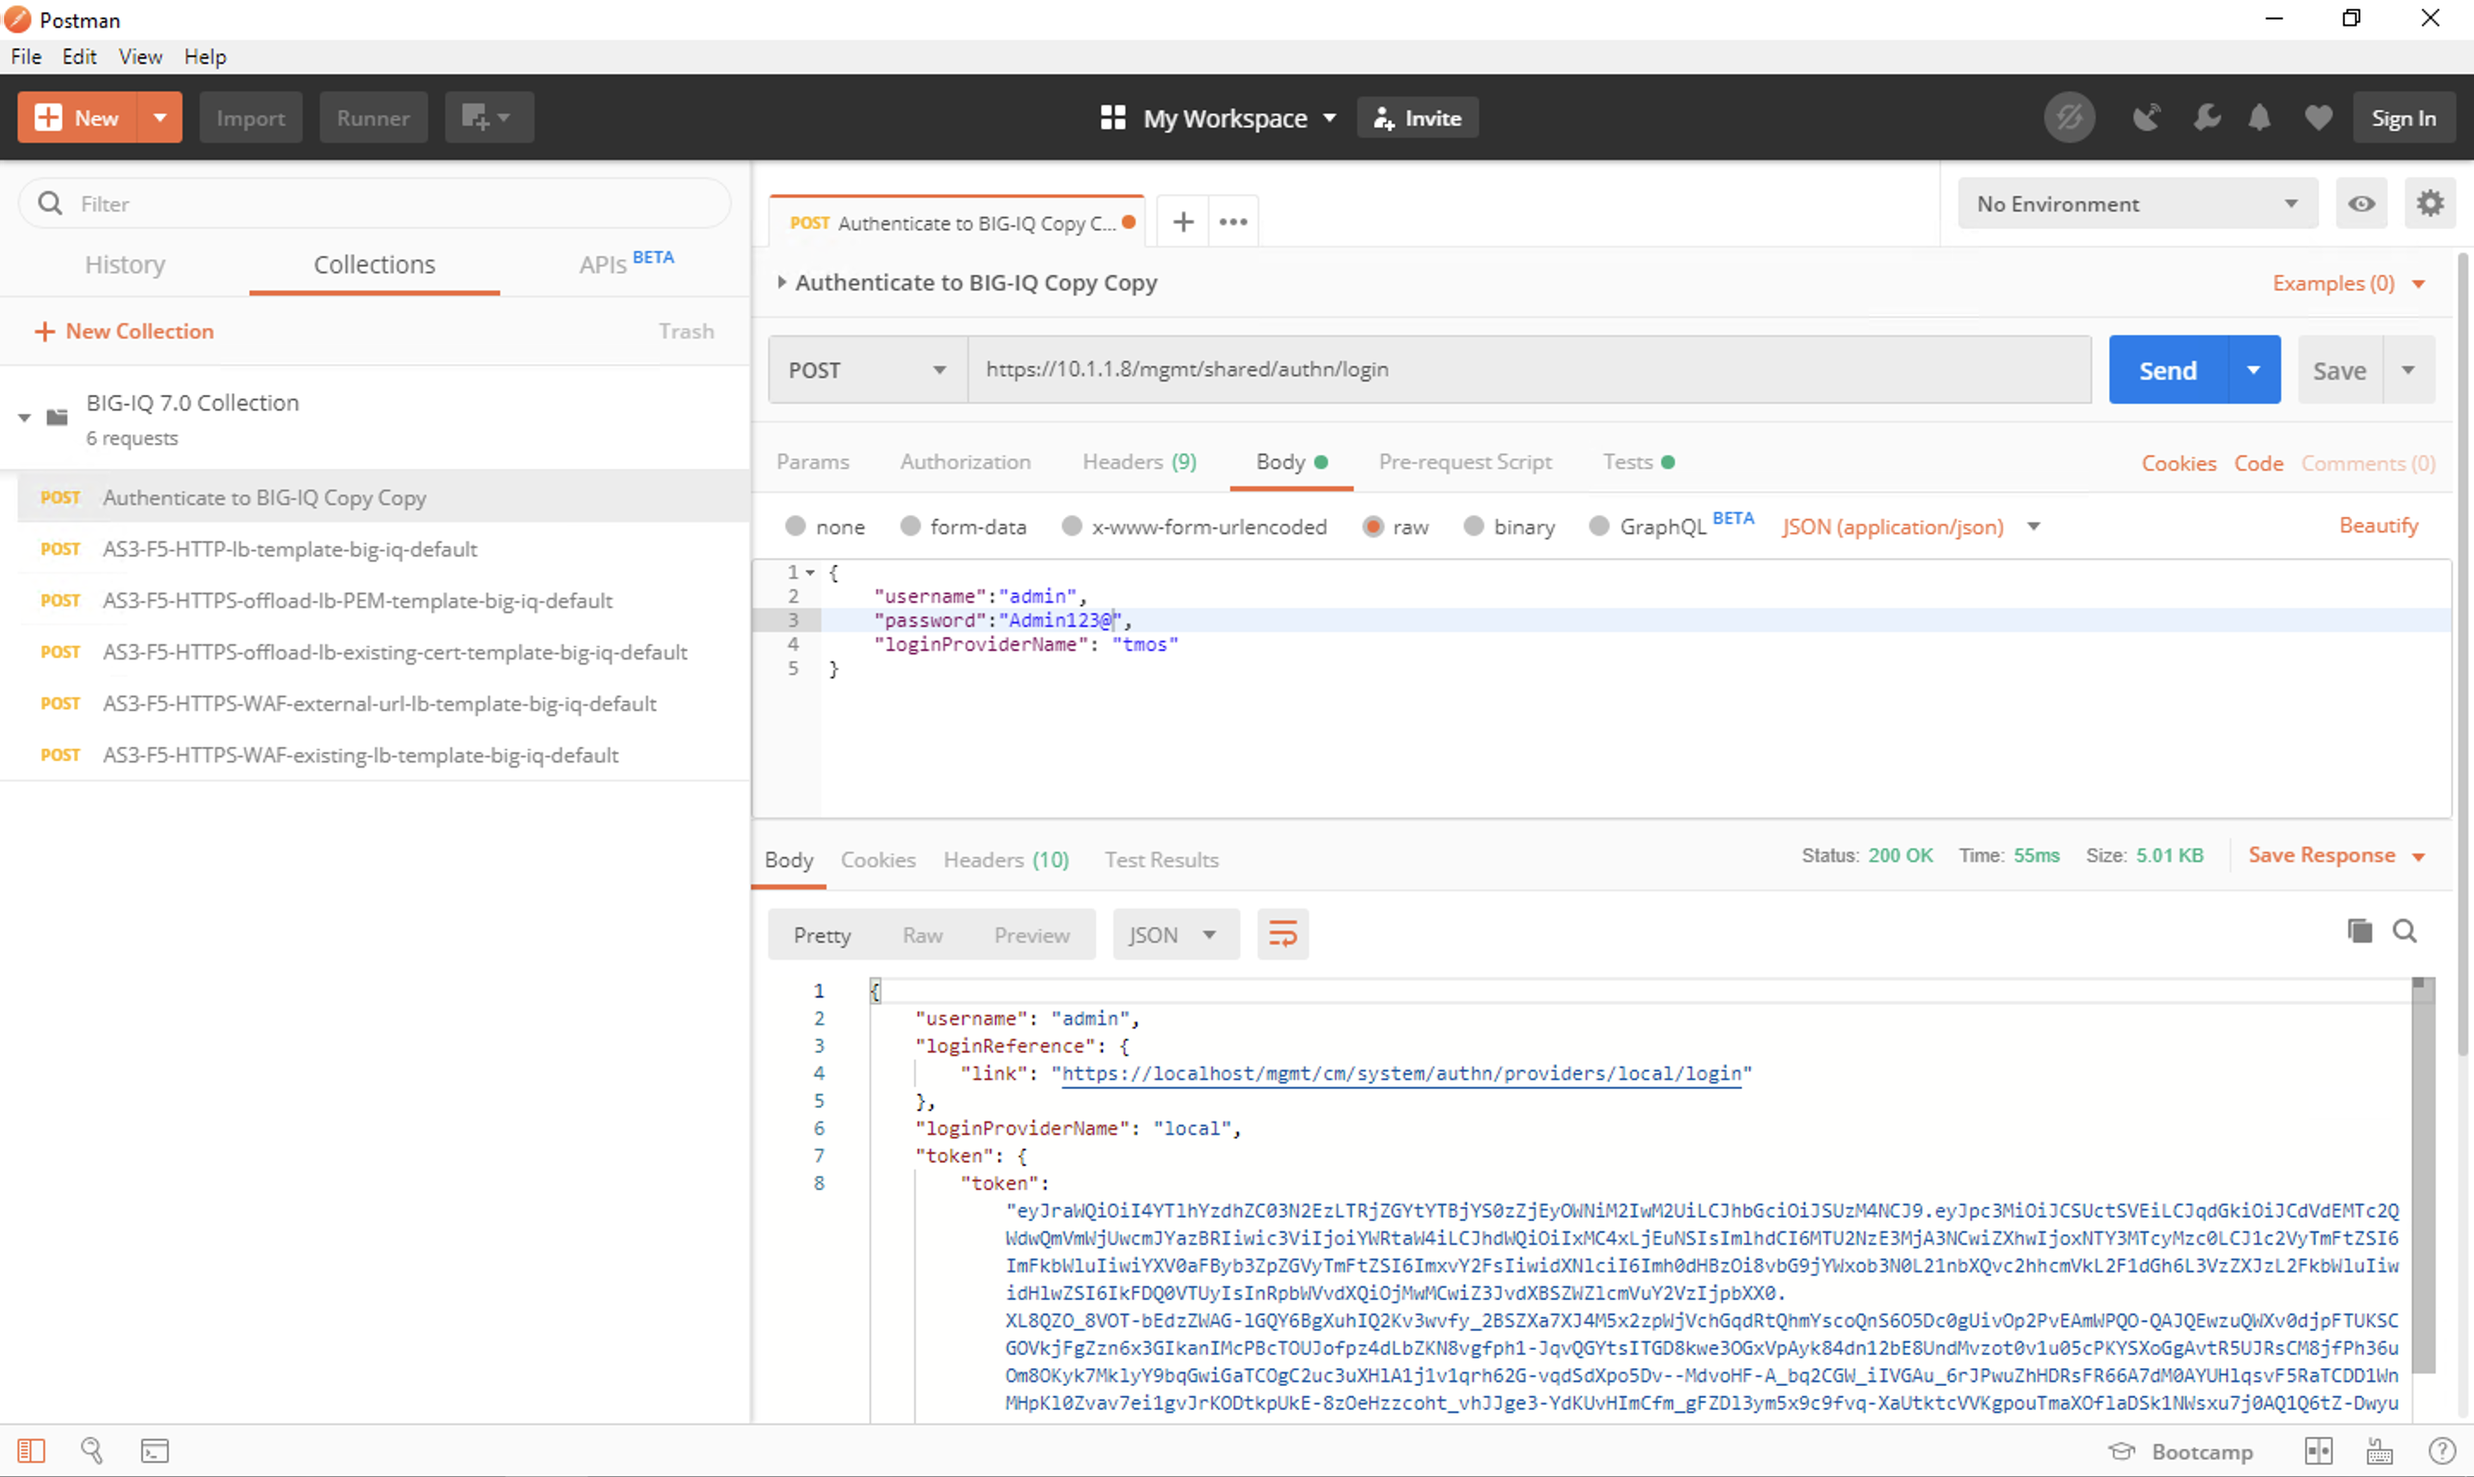
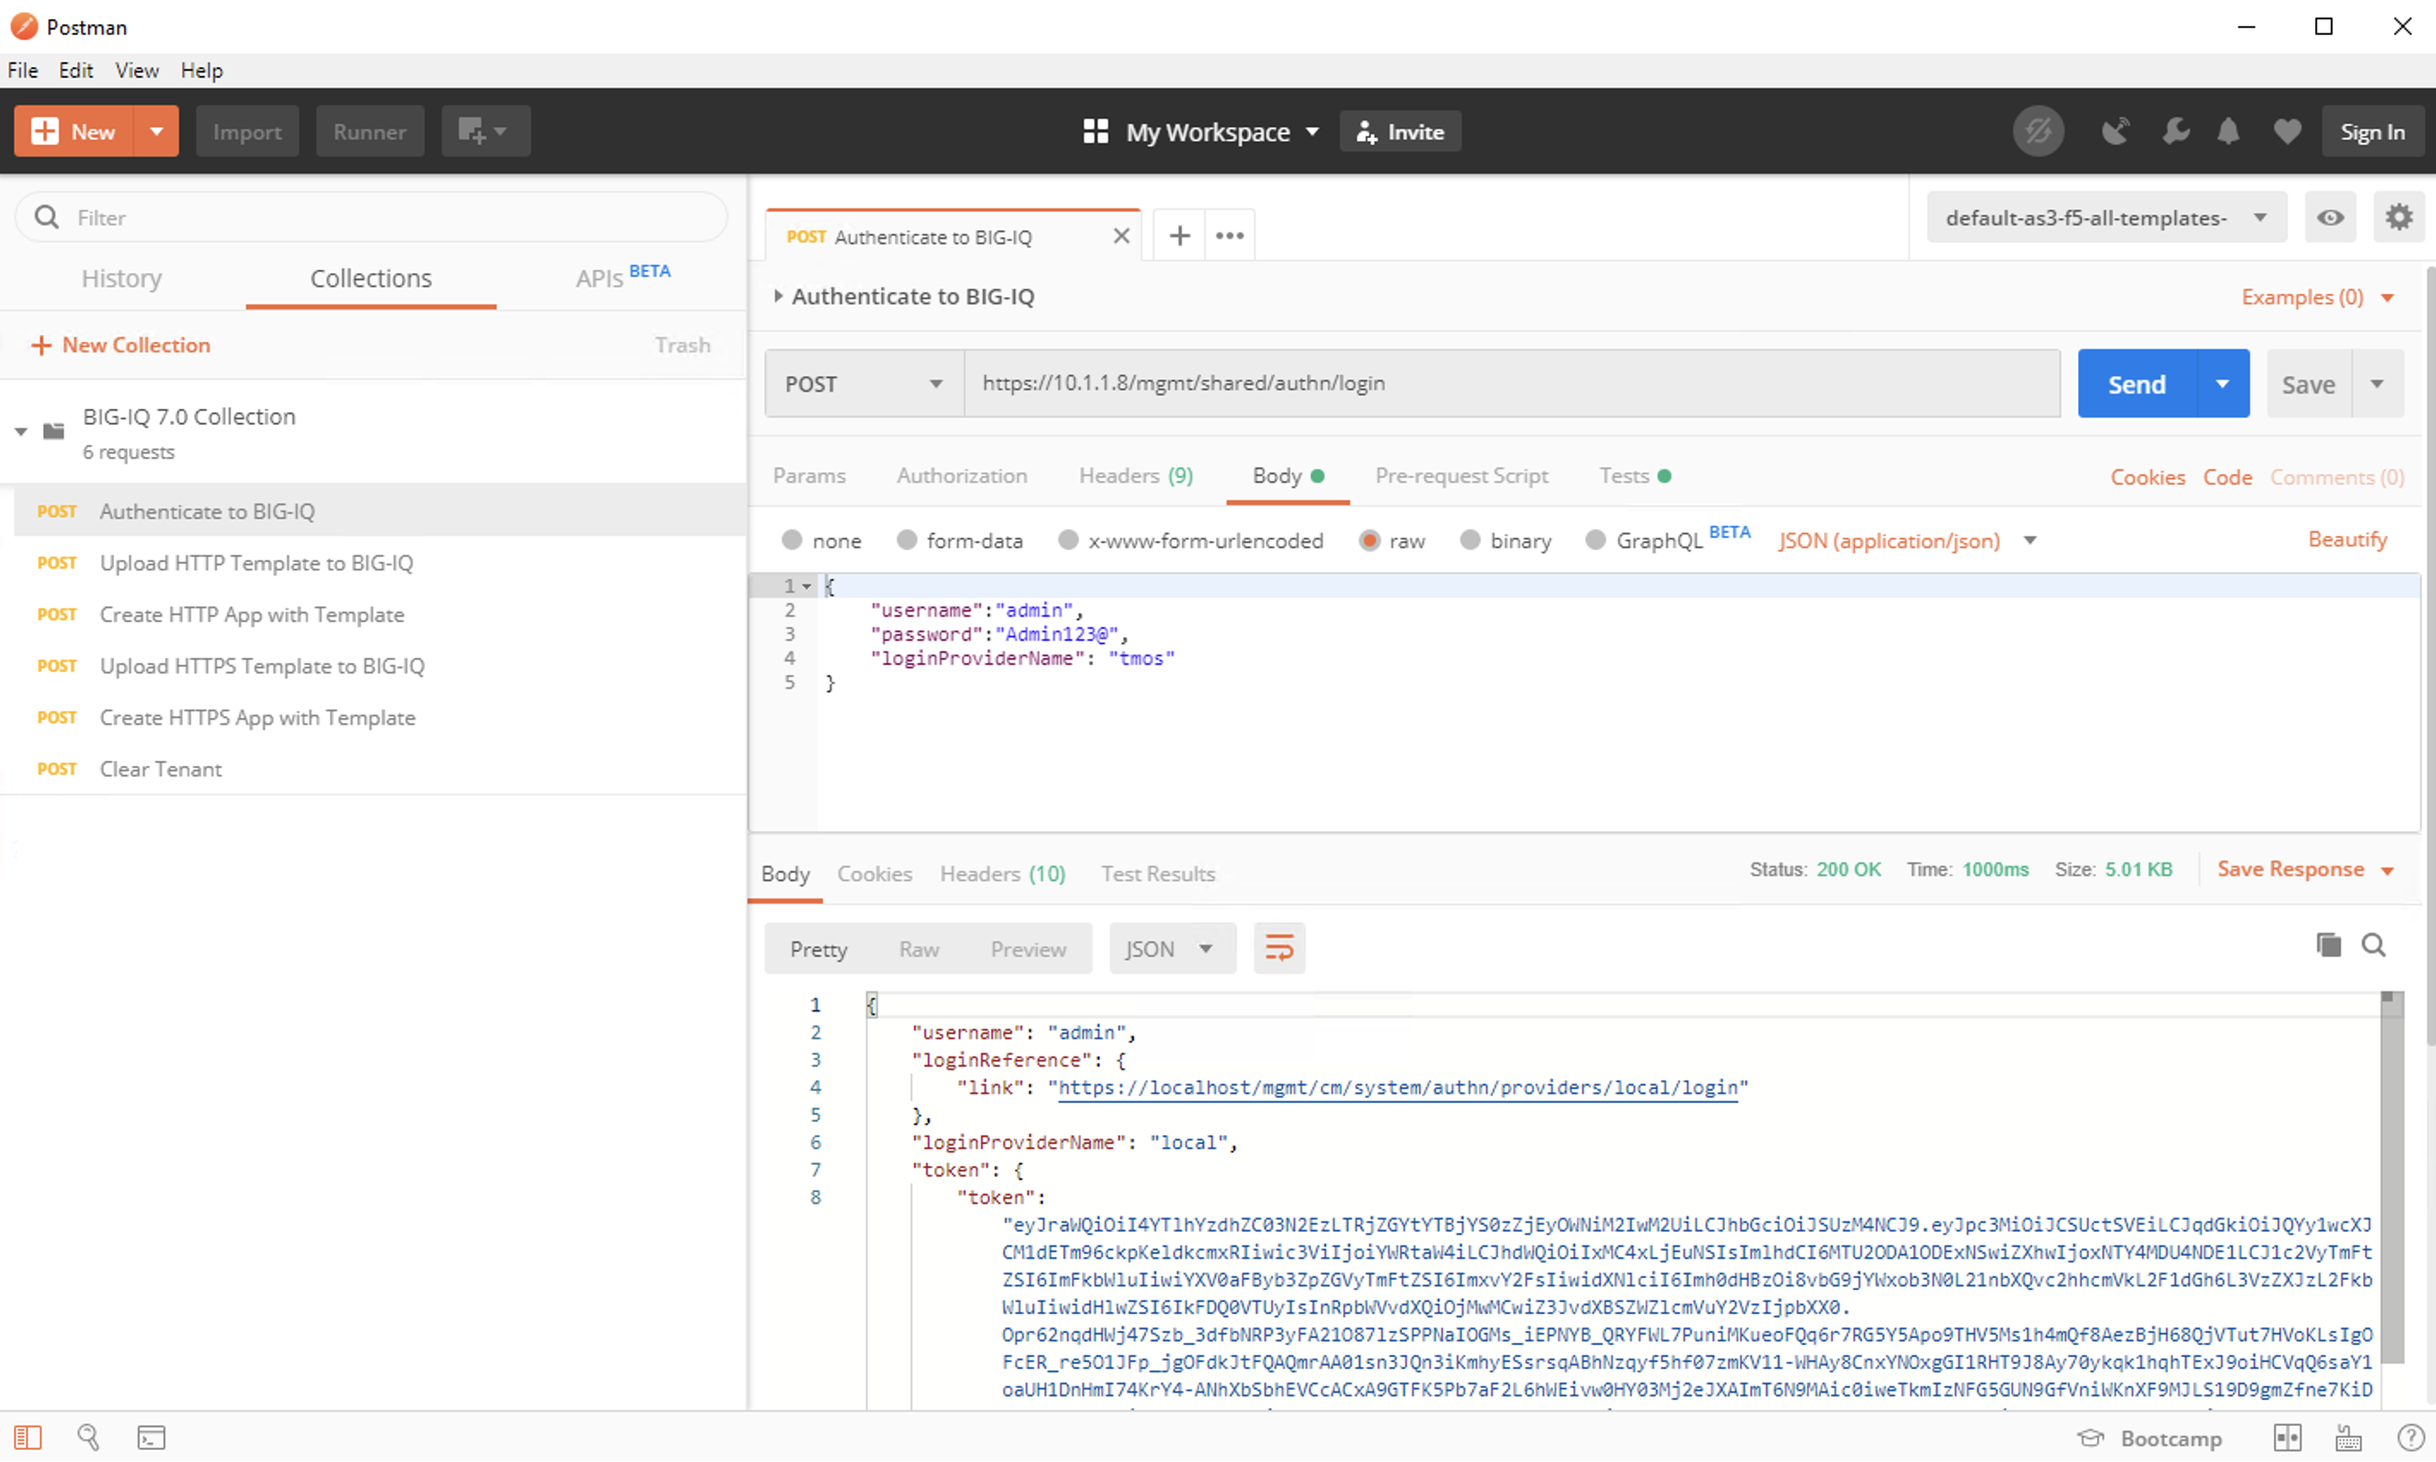
change BIG-IQ added more images

diff --git a/docs/class4/module2/lab2.rst b/docs/class4/module2/lab2.rst
@@ -1,9 +1,7 @@
 Using AS3 with BIG-IQ 7.0 
 -------------------------
 
-With BIG-IQ version 7.0 we can upload AS3 templates to the BIG-IQ with Postman. 
-In the BIG-IQ GUI we can set values (IP addresses, ports, Tenant name) 
-and then send that AS3 template to a target BIG-IP (10.1.1.7 for this lab). 
+We can upload AS3 templates to BIG-IQ 7.0 and deploy applications to target BIG-IPs (10.1.1.7 for this lab). 
 
 
 View BIG-IQ Without AS3 Templates 
@@ -17,35 +15,36 @@ View BIG-IQ Without AS3 Templates
 
 .. image:: /_static/7_1.png
 
-4. Notice above that AS3 Templates is empty.
+3. Notice above that AS3 Templates is empty.
 
 
-Configure Postman App
-~~~~~~~~~~~~~~~~~~~~~  
-1. Open the Postman application
+Import Postman Collection from GitHub 
+-------------------------------------
 
-.. image:: /_static/desktop.png
+1. Open the Postman application on the Windows desktop.
 
-2. At the bottom of the page in grey text select “Skip signing in and take me straight to the app”
+3. Turn off "SSL certificate verificattion" by going to "File" in the top right, selecting "Settings" from the dropdown and in "General" turning off the "SSL certificate verificattion" button.
+4. Use the Postman Import feature to import the pre-made Postman Collection.
+To do this: (1) Click the Import button. (2) Click Import from Link. 
+(3) For the Postman Collection, paste in the following and (4) click Import.
+    
 
 .. code-block:: text 
     
     https://raw.githubusercontent.com/jaustinf5/postman_collection/master/BIG-IQ 7.0 Collection.postman_collection.json
 
-3. If presented with one, exit the pop-up screen. Toggle off “SSL certification verification” by navigating to File then Settings then under the General tab, toggle SSL certification verification
+.. image:: /_static/7_2.png
 
 5. Once imported, you will be able to see the Postman Collection "BIG-IQ 7.0 Collection" as seen below. 
 
 .. image:: /_static/7_3.png
 
-.. image:: /_static/ssl.png
 
 
-Send AS3 Templates to BIG-IQ with Postman  
------------------------------------------
+Upload AS3 Templates to BIG-IQ  
+------------------------------
 
-.. NOTE:: The declarations titled "AS3-F5-\*-big-iq-default" are requests made by F5 that work with BIG-IQ 7.0. 
-When we send the declaration, the template will be stored on the BIG-IQ.
+.. NOTE:: Find templates https://clouddocs.f5.com/products/big-iq/mgmt-api/v6.1.0/ApiReferences/bigiq_public_api_ref/r_as3_template.html
 
 1. Click into "BIG-IQ 7.0 Collection" and open the request, "Authenticate to BIG-IQ".
 
@@ -59,9 +58,9 @@ When we send the declaration, the template will be stored on the BIG-IQ.
 
 .. image:: /_static/7_5.png
 
-*** If error: "Invalid registered claims.", the token has expired. Resend "Authenticate to BIG-IQ" request to fix.***
+.. NOTE:: Auth tokens expire every 5 minutes. "Invalid registered claims." means the token has expired. Resend "Authenticate to BIG-IQ" request to fix.
 
-5. Click into the request "AS3-F5-HTTP-lb-template-big-iq-default". Open the "Body" tab to view the JSON declaration.
+5. Click into the request "Upload HTTP Template to BIG-IQ". Open the "Body" tab to view the JSON declaration.
 
 .. image:: /_static/7_6.png
 
@@ -86,51 +85,57 @@ When you receive the pop-up, click the blue "Publish" button.
 
 .. image:: /_static/7_9.png
 
-4. In the left menu bar, select Application and select the "Create" button.
-
-.. image:: /_static/7_10.png
-
-5. Enter an "Application Name". Here I've named mine, "app_made_by_as3_template".
-
-6. From the "Template Type" dropdown, select our imported template.
-
-.. image:: /_static/7_11.png
-
-7. For the "General Properties" section, enter similar information. For "Target", make sure to select the corresponding hostname to 10.1.1.7 from the dropdown
-
-.. image:: /_static/7_12.png
-
-8. For the "Pool" section, add "10.1.10.13" in "Server Addresses"
-
-.. image:: /_static/7_13.png
-
-9. For the "Service_HTTP" section, add "10.1.20.50" in "Virtual addresses". 
-
-.. image:: /_static/7_14.png
-
-10. Click the blue "Create" button. The page will load to below.
-
-.. image:: /_static/7_15.png
 
 
-View Created Application on BIG-IP (10.1.1.7) 
-----------------------------------------------
+Enable RBAC
+-----------
+1. In the top menu bar, select Application. Under Role Management select "Roles". Under Custom Roles select "Application Roles". Select "Admin Role".
 
-1. Open a new tab in Chrome
+.. NOTE:: If not created, create a new custom applicationi role
 
-2. Open Chrome and navigate to the bookmark titled "(BIG-IP 10.1.1.87)". 
+.. image:: /_static/7_18.png
 
-3. Login to the BIG-IQ: username = admin, password = admin
+2. For the Active Users and Groups section ensure admin is selected.
 
-4. Change partition to your new partition.
+3. For the section AS3 Templates section ensure your template is selected.
 
-5. Open Local Traffic --> Network Map
+.. image:: /_static/7_19.png
 
-.. image:: /_static/7_16.png
+4. Click Save & Close
 
-6. Open a new tab and enter the VIP 10.1.20.50 in the browser to view the app.
 
-.. image:: /_static/7_17.png
+Create a new Application via AS3 Template
+-----------------------------------------
+
+1. Open the Postman Application
+
+.. NOTE:: You might have to re-auth by sending the Authenticate to BIG-IQ declaration
+
+2. Open and send the "Create HTTP App with Template" declaration. 
+
+.. image:: /_static/7_20.png
+
+3. Open Chrome and view the application on the BIG-IP (10.1.1.7). Login is "admin", "admin".
+
+.. image:: /_static/7_21.png
+
+
+Move the Application to a new App Service
+-----------------------------------------
+
+1. Navigate to the BIG-IQ at 10.1.1.8
+
+2. Click on the Application tab and open the Unknown Applications titled
+
+3. Select the newly created applicaton and select "Move".
+
+4. Enter "AS3 Apps" for the Application Name.
+
+.. image:: /_static/7_22.png
+
+5. Now navigate back to the Applications and see your newly created tile.
+
+.. image:: /_static/7_23.png
 
 
 .. NOTE:: End of the lab.
